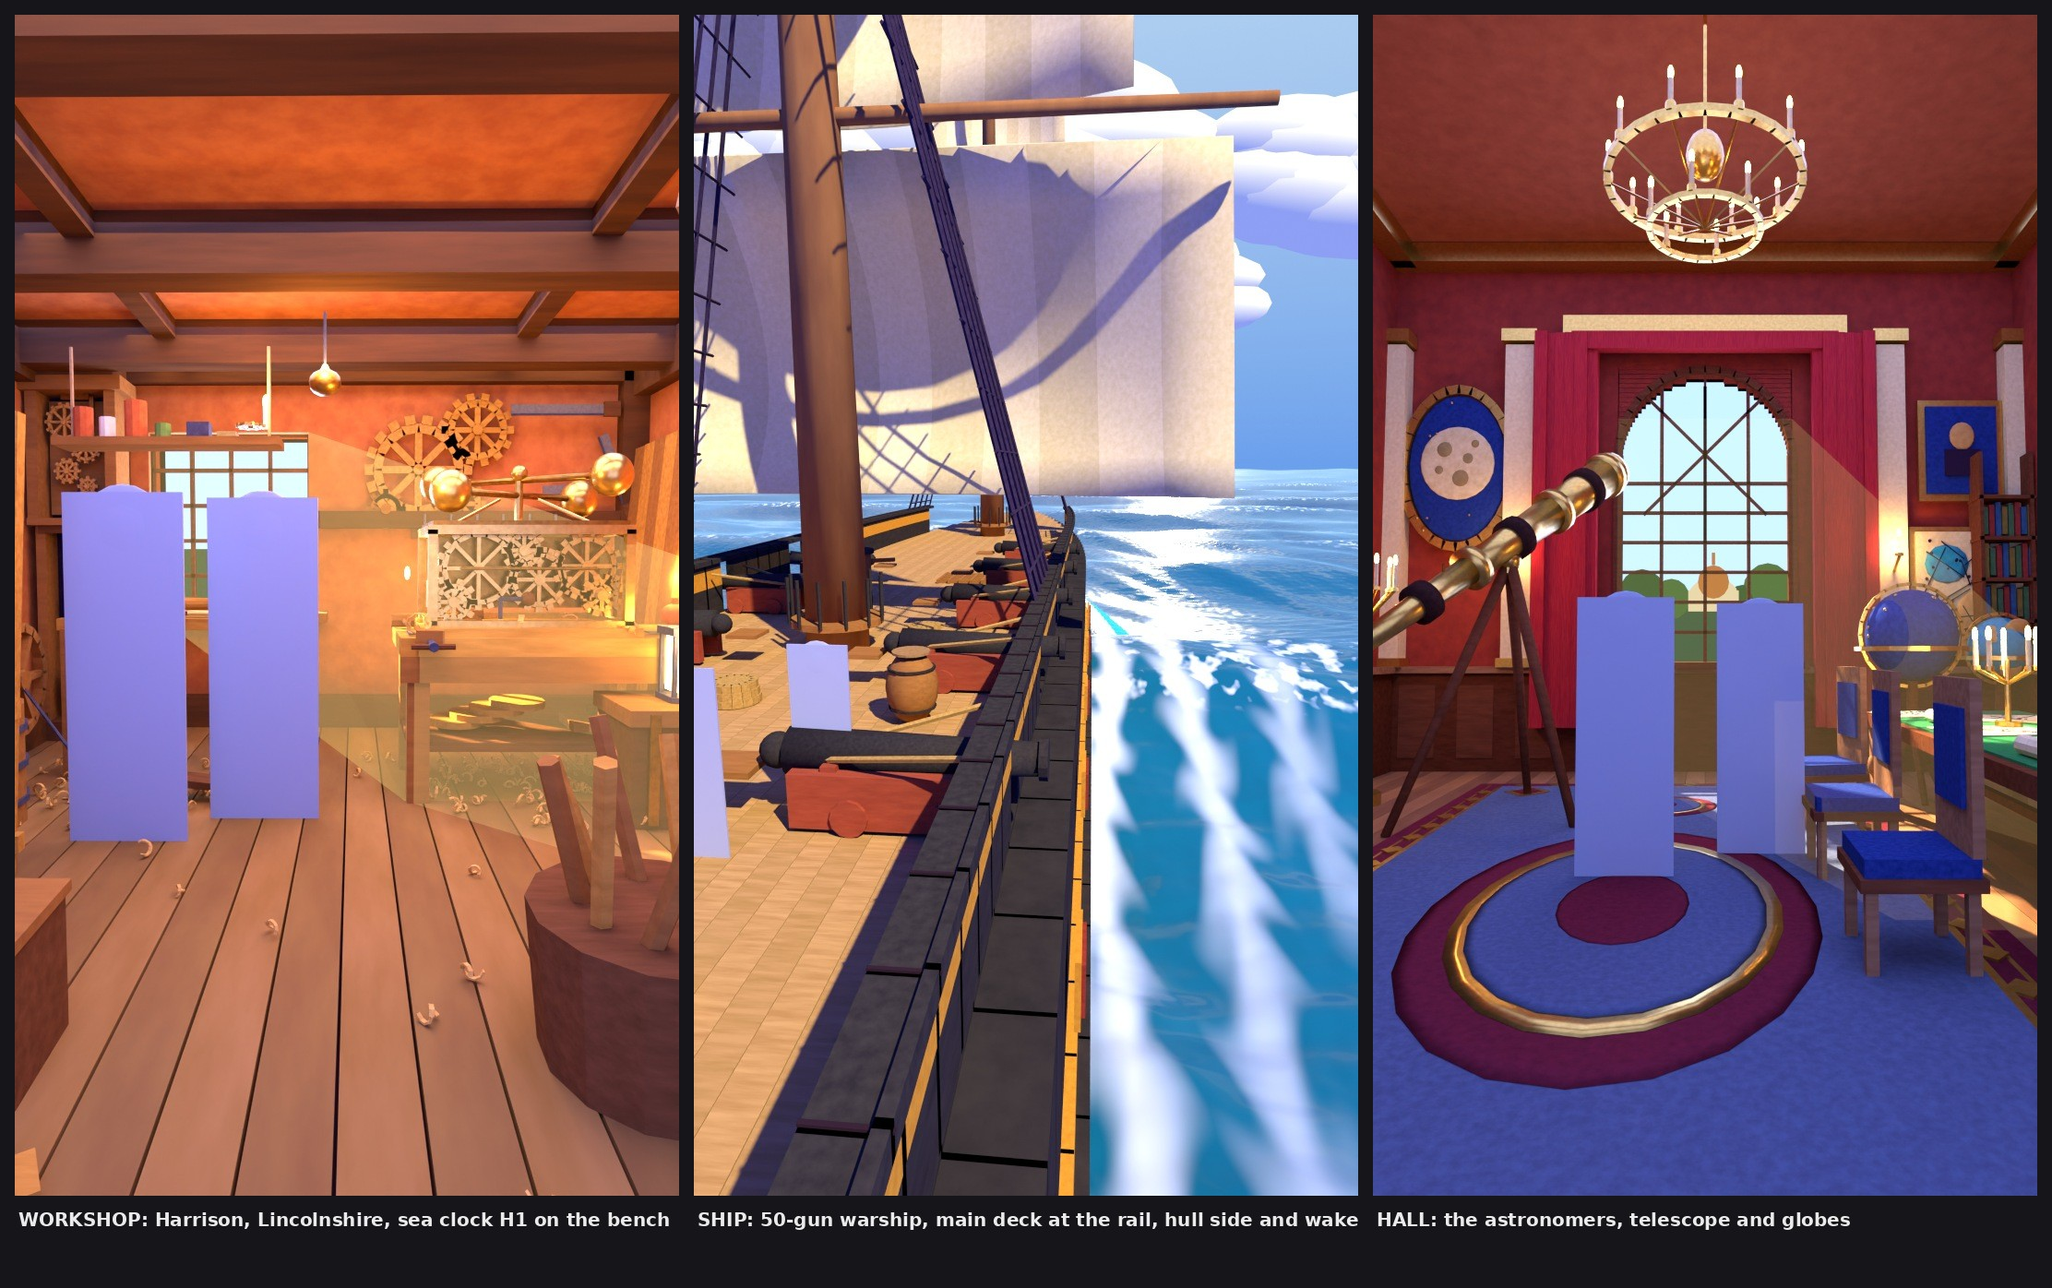
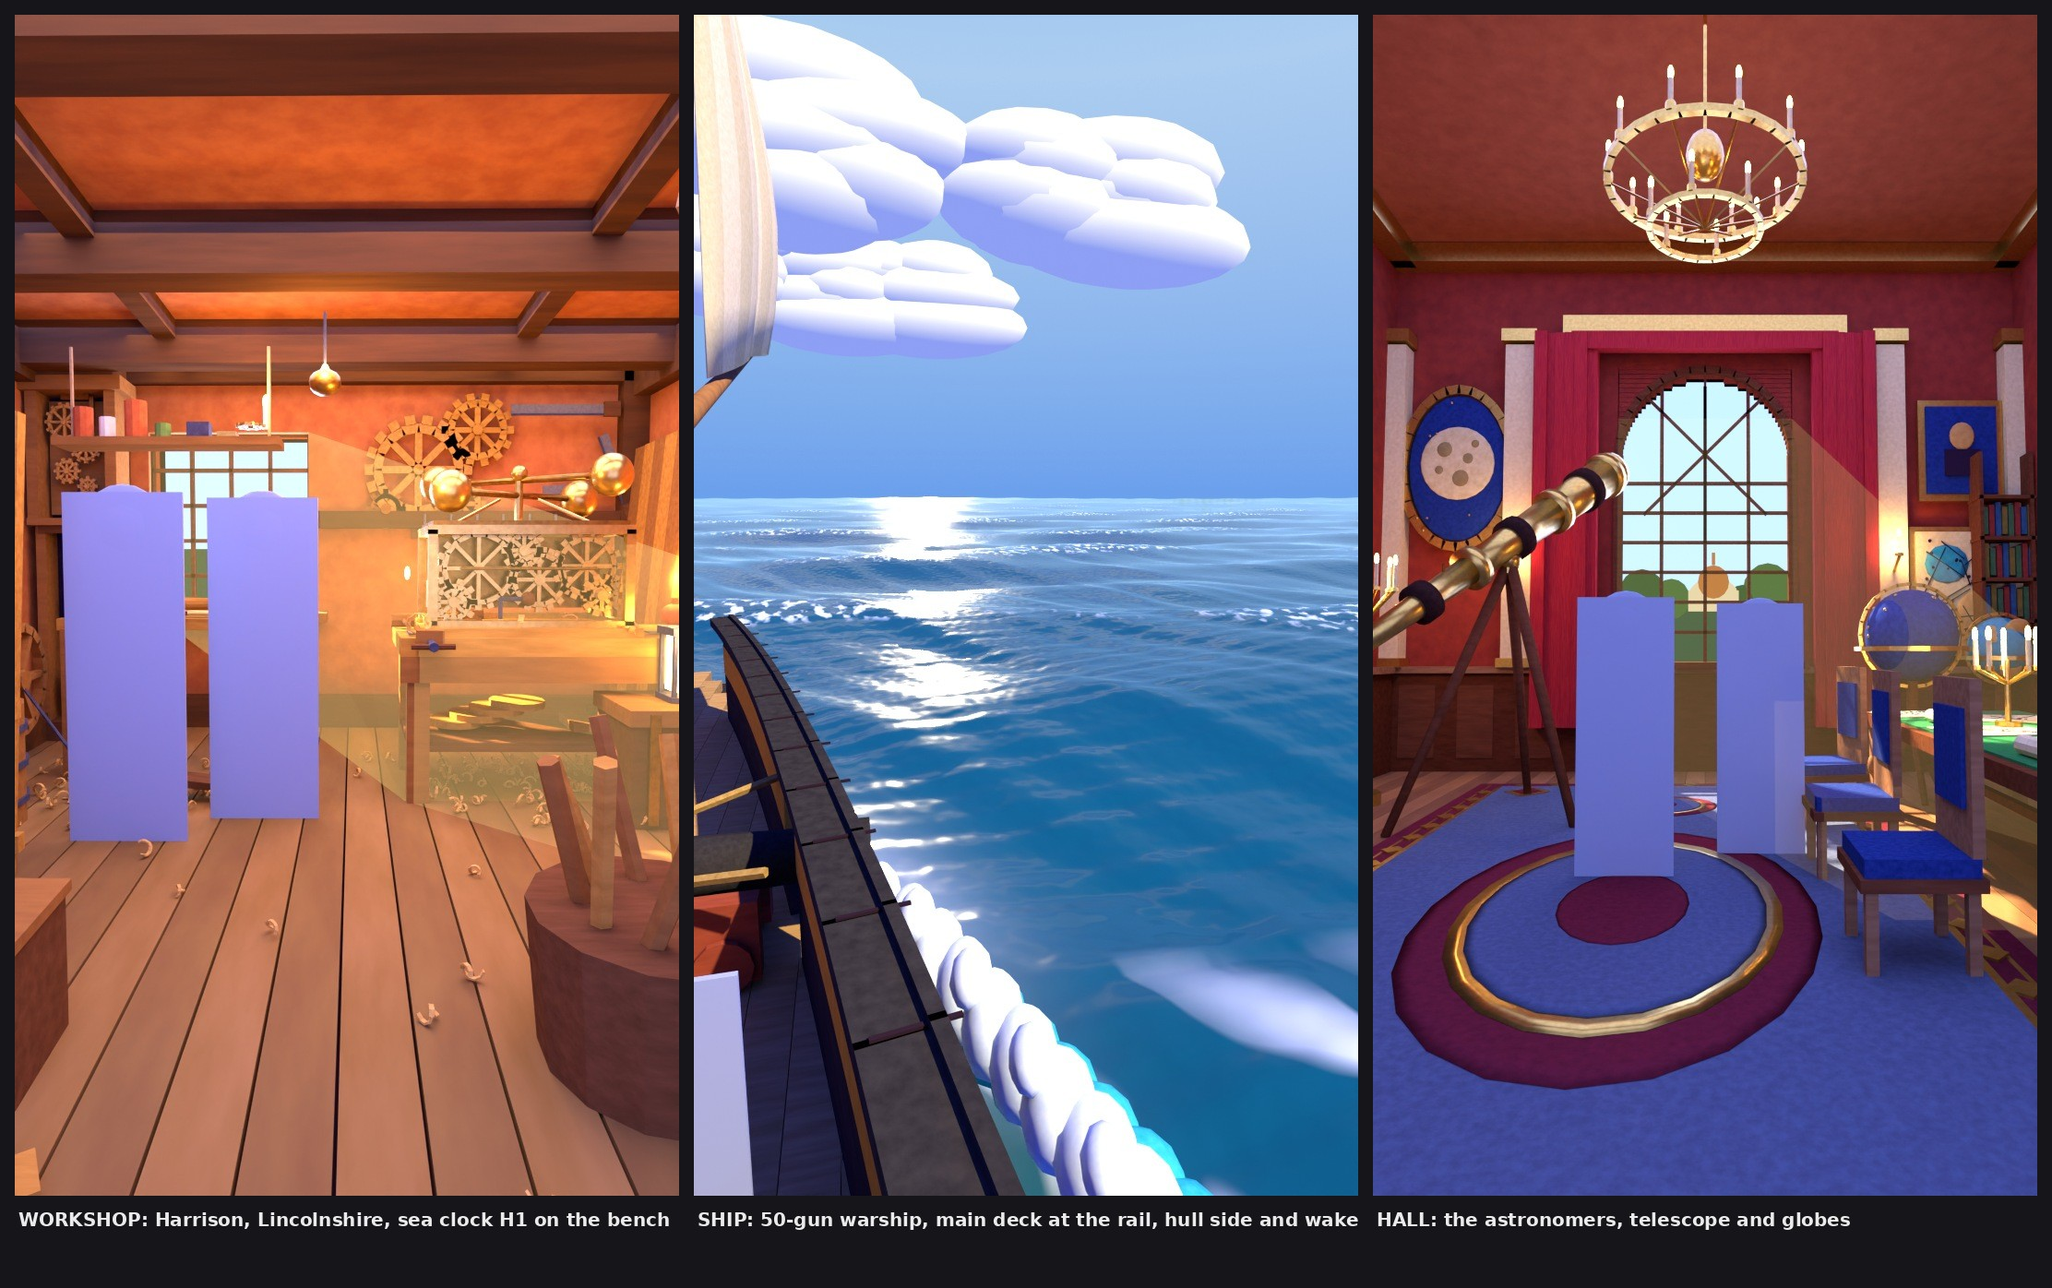
Film 19: style board v5 ship (bow view)
Claude-Session: https://claude.ai/code/session_017iwyCuVqr4pVQferrZ24jv

Changed region(s): [[0.3103, 0.0, 0.6826, 0.9549]]

diff --git a/film/v3/set3d19/styleboard/sb.py b/film/v3/set3d19/styleboard/sb.py
@@ -607,7 +607,7 @@ def build_ship(P):
     k = 0; x = -3.7 + 0.13
     while x < 3.7:
         yl = ylim_for(abs(x)); mb.box(M['deck1'] if k % 2 else M['deck2'], (x, (Y0 + yl) / 2, DECK - 0.08), (0.255, yl - Y0, 0.16)); x += 0.26; k += 1
-    gun_y = [2.0, 6.0, 10.0, 14.0, 18.0]; gun_yp = [3.0, 7.0, 11.0, 15.0]
+    gun_y = [2.0, 6.0, 10.0, 14.0, 18.0, 31.0, 34.5, 38.0]; gun_yp = [3.0, 7.0, 11.0, 15.0, 32.5, 36.0]
     y = Y0
     while y < STEM:
         yc = y + 0.5; b = hw(yc)
@@ -624,14 +624,14 @@ def build_ship(P):
             mb.box(M['ochre'], (s * (b + tt + 0.04), g, 4.55), (0.06, 0.78, 0.7)); mb.box(M['port'], (s * (b + tt + 0.08), g, 4.55), (0.06, 0.62, 0.54))
     for s, gy in ((1, gun_y), (-1, gun_yp)):
         y = Y0
-        while y < 29.0:
+        while y < 43.0:
             yc = y + 0.3; b = hw(yc)
             if b > 0.3 and not any(abs(yc - g) < 0.42 for g in gy):
                 dy = hw(yc + 0.3) - hw(yc - 0.3); ang = math.atan2(-dy * s, 0.6)
                 mb.box(M['hullb'], (s * (b - 0.04), yc, DECK + 0.3), (0.16, 0.66, 0.6), rz=ang); mb.box(M['ochre'], (s * (b - 0.04), yc, DECK + 0.78), (0.17, 0.66, 0.36), rz=ang); mb.box(M['hullb'], (s * (b - 0.04), yc, DECK + 1.02), (0.16, 0.66, 0.12), rz=ang)
             y += 0.6
         y = Y0
-        while y < 29.5:
+        while y < 43.5:
             yc = y + 0.35; b = hw(yc); dy = hw(yc + 0.35) - hw(yc - 0.35)
             if b > 0.2:
                 mb.box(M['cap'], (s * (b - 0.02), yc, DECK + 1.14), (0.3, 0.74, 0.1), rz=math.atan2(-dy * s, 0.7)); mb.box(M['cap'], (s * (b + 0.1), yc, DECK + 1.2), (0.06, 0.74, 0.06), rz=math.atan2(-dy * s, 0.7))
@@ -697,8 +697,8 @@ def build_ship(P):
     tq = mat('turq', '#2fa9a4', '#46bdb0', scale=2)
     for side in (-1, 1):
         for k in range(22):
-            yy = STEM - 0.3 - k * 0.75; b = hw(yy) + 1.0 + 0.22 * k ** 0.6
-            hgt = max(0.18, 1.7 - 0.07 * k); yaw = -side * math.atan2(hw(yy + 0.4) - hw(yy - 0.4), 0.8) * -1.0
+            yy = STEM - 0.3 - k * 0.75; b = hw(yy) + 2.6 + 0.25 * k ** 0.6
+            hgt = max(0.22, 2.1 - 0.08 * k); yaw = -side * math.atan2(hw(yy + 0.4) - hw(yy - 0.4), 0.8) * -1.0
             sp.ell(tq, (side * (b + 0.35 + 0.02 * k), yy, 0.15 + hgt * 0.22), (0.5 + 0.02 * k, 0.8, hgt * 0.42), (12, 6), rot=(0, 0, yaw))           # turquoise underside / face
             sp.ell(M['spray'], (side * (b - 0.05), yy, 0.2 + hgt * 0.62), (0.42 + 0.015 * k, 0.78, hgt * 0.4), (12, 6), rot=(0, 0, yaw))                # white curling roll on top
             if k % 2 == 0: sp.ell(M['spray'], (side * (b - 0.35), yy + 0.2, 0.25 + hgt * 0.95), (0.3, 0.5, hgt * 0.22), (10, 6), rot=(0, 0, yaw))       # the lip
@@ -715,7 +715,7 @@ def build_ship(P):
     ib.finish(shadow=False)
     sb_ = MB('farsail'); sb_.quad(M['darksail'], [(-330, 1500, 0.5), (-304, 1500, 0.5), (-312, 1500, 24), (-326, 1500, 28)]); sb_.quad(M['darksail'], [(-335, 1500, 0.5), (-305, 1500, 0.5), (-305, 1500, 3), (-335, 1500, 3)]); sb_.finish(shadow=False)
     cm = MB('cards')
-    if not os.environ.get('NOCARDS'): card(cm, M['grey'], 1.2, 1.2, w=0.55, z0=DECK); card(cm, M['grey'], 2.0, 2.0, w=0.55, z0=DECK); cm.finish()
+    if not os.environ.get('NOCARDS'): card(cm, M['grey'], 1.0, 34.0, w=0.55, z0=DECK); card(cm, M['grey'], 1.8, 35.4, w=0.55, z0=DECK); cm.finish()
     if not os.environ.get('NOSEA'): build_sea(P)
     clouds(P)
 
@@ -748,15 +748,16 @@ def build_sea(P):
     # foam attribute: wash along the outboard hull, bow foam (broken up by the shader noise)
     hh_ = hw(np.clip(py, -12, STEM)); d_hull = np.abs(px) - (hh_ + 0.95); d_hull = np.where((py > -12) & (py < STEM + 1), d_hull, 9)
     dh = np.maximum(d_hull, 0.0); dback = np.maximum(STEM - py, 0.0)
-    lace = 0.5 + 0.5 * np.sin(py * 1.7 + 2.3 * np.sin(dh * 2.1 + py * 0.3))
     inhull = (py > -12) & (py < STEM + 1.0)
+    uu_ = py / 2.4; vv_ = dh / 0.8                                   # patch coordinates: 3 m along the hull per 1 m across -> ~3:1 patches
+    nzp = 0.5 + 0.22 * np.sin(1.7 * uu_ + 0.9 * np.sin(1.3 * vv_ + 0.4 * uu_)) + 0.2 * np.sin(2.3 * vv_ + 1.2 * np.sin(0.8 * uu_ + 1.7)) + 0.12 * np.sin(3.1 * uu_ - 2.2 * vv_ + 0.7)
     bands = np.zeros_like(px)
-    for (off, w, amp, flen) in ((0.4, 0.9, 1.0, 80.0), (3.3, 1.0, 0.85, 60.0), (6.6, 1.15, 0.7, 44.0)):
-        wd = w * (0.65 + 0.7 * lace)
-        bnd = np.clip(1 - np.abs(dh - off - 0.3 * np.sin(py * 0.3 + off)) / wd, 0, 1)
-        bnd = bnd * bnd * (3 - 2 * bnd) * amp * np.clip(1.05 - dback / flen, 0, 1)
-        bands = np.maximum(bands, bnd)
-    bands *= inhull
+    for (off, w, amp, flen) in ((3.2, 1.6, 1.0, 90.0), (7.6, 2.2, 0.9, 90.0), (12.6, 2.8, 0.8, 90.0)):
+        env = np.clip(1 - np.abs(dh - off - 0.3 * dback * (0.4 + off / 12.0) - 0.5 * np.sin(py * 0.17 + off)) / w, 0, 1); env = env * env * (3 - 2 * env)
+        thr = 0.5 - 0.3 * env                                            # centre of the band is the most foamy
+        patch = np.clip((nzp - thr) / 0.12, 0, 1)
+        bands = np.maximum(bands, patch * env * amp * np.clip(1.05 - dback / flen, 0, 1))
+    bands *= inhull * np.clip((STEM + 1.0 - py) / 7.0, 0, 1)
     bow = np.exp(-(((px - 0.0) / 3.2) ** 2 + ((py - (STEM + 2.0)) / 4.2) ** 2)) * 0.9
     foam = np.nan_to_num(np.clip(np.maximum(bands * 0.95, bow), 0, 1))
     verts = np.stack([px, py, h], -1).reshape(-1, 3).astype(np.float32)
@@ -774,6 +775,7 @@ def build_sea(P):
     m = bpy.data.materials.new('sea'); m.use_nodes = True; nt = m.node_tree; nt.nodes.clear(); N = nt.nodes.new; L = nt.links.new
     out = N('ShaderNodeOutputMaterial'); bs = N('ShaderNodeBsdfPrincipled')
     bs.inputs['Roughness'].default_value = 0.1; bs.inputs['IOR'].default_value = 1.33; bs.inputs['Specular IOR Level'].default_value = 0.5
+    cdv = N('ShaderNodeCameraData'); msp = N('ShaderNodeMapRange'); msp.inputs['From Min'].default_value = 20.0; msp.inputs['From Max'].default_value = 120.0; msp.inputs['To Min'].default_value = 0.22; msp.inputs['To Max'].default_value = 0.5; L(cdv.outputs['View Distance'], msp.inputs['Value']); L(msp.outputs['Result'], bs.inputs['Specular IOR Level'])
     def mixc(a, b, fac):
         mx = N('ShaderNodeMix'); mx.data_type = 'RGBA'
         if hasattr(a, 'node'): L(a, mx.inputs[6])
@@ -784,7 +786,7 @@ def build_sea(P):
     cd = N('ShaderNodeCameraData'); mr = N('ShaderNodeMapRange'); mr.inputs['From Min'].default_value = 22.0; mr.inputs['From Max'].default_value = 220.0; L(cd.outputs['View Distance'], mr.inputs['Value'])
     col = mixc(hexc(P['sea_near']), hexc(P['sea_far']), mr.outputs['Result'])
     gp = N('ShaderNodeNewGeometry'); spz = N('ShaderNodeSeparateXYZ'); L(gp.outputs['Position'], spz.inputs[0])
-    cr = N('ShaderNodeMapRange'); cr.inputs['From Min'].default_value = 0.62; cr.inputs['From Max'].default_value = 0.95; L(spz.outputs['Z'], cr.inputs['Value'])
+    cr = N('ShaderNodeMapRange'); cr.inputs['From Min'].default_value = 0.55; cr.inputs['From Max'].default_value = 0.9; L(spz.outputs['Z'], cr.inputs['Value'])
     tcw = N('ShaderNodeTexCoord'); mpw = N('ShaderNodeMapping'); mpw.inputs['Scale'].default_value = (1.1, 0.7, 1.0); L(tcw.outputs['Object'], mpw.inputs['Vector'])
     nzw = N('ShaderNodeTexNoise'); nzw.inputs['Scale'].default_value = 1.0; nzw.inputs['Detail'].default_value = 2.0; L(mpw.outputs[0], nzw.inputs['Vector'])
     sp2 = N('ShaderNodeMapRange'); sp2.inputs['From Min'].default_value = 0.52; sp2.inputs['From Max'].default_value = 0.64; L(nzw.outputs['Fac'], sp2.inputs['Value'])
@@ -815,9 +817,9 @@ PRESETS['ship'] = dict(
     sky=[(0.0, '#6c9ce0'), (0.46, '#a9c6e6'), (0.5, '#a4c4e6'), (0.58, '#7ea8e2'), (0.78, '#4f7ed0'), (1.0, '#3a64be')], sky_k=1.0,
     key=(1.0, 0.92, 0.78, 6.5), key_dir=kdir(140, 48), sun_angle=0.9, exposure=0.1, sat=1.08, amb=('#3050FF', 1.7), samples=80, dbounce=1, gloss=2,
     cloud=('#ffffff', '#8c9ce8'), cloud_diffuse=True, cloud_z=(70, 170), ncloud=8, cloud_seed=4, cloud_scale=0.8,
-    sea_near='#115f6e', sea_far='#0a2c4c', fresnel_k=0.7,
+    sea_near='#0a4a58', sea_far='#0a2c4c', fresnel_k=0.7,
     glit_az=6, glit_el=11, glit_k=30.0,
-    cam=dict(loc=(4.4, -4.0, 9.2), look=(4.4 - 3.6, -4.0 + 39.8, 9.2 - 7.9), lens=22))
+    cam=dict(loc=(2.4, 33.5, 8.9), look=(2.4 + 9.7, 33.5 + 38.8, 8.9 - 6.3), lens=22))
 
 def lights_ship(P):
     sun_light(P); w = sky_world2(P)

diff --git a/film/v3/set3d19/styleboard/part_ship.py b/film/v3/set3d19/styleboard/part_ship.py
@@ -94,7 +94,7 @@ def build_ship(P):
     k = 0; x = -3.7 + 0.13
     while x < 3.7:
         yl = ylim_for(abs(x)); mb.box(M['deck1'] if k % 2 else M['deck2'], (x, (Y0 + yl) / 2, DECK - 0.08), (0.255, yl - Y0, 0.16)); x += 0.26; k += 1
-    gun_y = [2.0, 6.0, 10.0, 14.0, 18.0]; gun_yp = [3.0, 7.0, 11.0, 15.0]
+    gun_y = [2.0, 6.0, 10.0, 14.0, 18.0, 31.0, 34.5, 38.0]; gun_yp = [3.0, 7.0, 11.0, 15.0, 32.5, 36.0]
     y = Y0
     while y < STEM:
         yc = y + 0.5; b = hw(yc)
@@ -111,14 +111,14 @@ def build_ship(P):
             mb.box(M['ochre'], (s * (b + tt + 0.04), g, 4.55), (0.06, 0.78, 0.7)); mb.box(M['port'], (s * (b + tt + 0.08), g, 4.55), (0.06, 0.62, 0.54))
     for s, gy in ((1, gun_y), (-1, gun_yp)):
         y = Y0
-        while y < 29.0:
+        while y < 43.0:
             yc = y + 0.3; b = hw(yc)
             if b > 0.3 and not any(abs(yc - g) < 0.42 for g in gy):
                 dy = hw(yc + 0.3) - hw(yc - 0.3); ang = math.atan2(-dy * s, 0.6)
                 mb.box(M['hullb'], (s * (b - 0.04), yc, DECK + 0.3), (0.16, 0.66, 0.6), rz=ang); mb.box(M['ochre'], (s * (b - 0.04), yc, DECK + 0.78), (0.17, 0.66, 0.36), rz=ang); mb.box(M['hullb'], (s * (b - 0.04), yc, DECK + 1.02), (0.16, 0.66, 0.12), rz=ang)
             y += 0.6
         y = Y0
-        while y < 29.5:
+        while y < 43.5:
             yc = y + 0.35; b = hw(yc); dy = hw(yc + 0.35) - hw(yc - 0.35)
             if b > 0.2:
                 mb.box(M['cap'], (s * (b - 0.02), yc, DECK + 1.14), (0.3, 0.74, 0.1), rz=math.atan2(-dy * s, 0.7)); mb.box(M['cap'], (s * (b + 0.1), yc, DECK + 1.2), (0.06, 0.74, 0.06), rz=math.atan2(-dy * s, 0.7))
@@ -184,8 +184,8 @@ def build_ship(P):
     tq = mat('turq', '#2fa9a4', '#46bdb0', scale=2)
     for side in (-1, 1):
         for k in range(22):
-            yy = STEM - 0.3 - k * 0.75; b = hw(yy) + 1.0 + 0.22 * k ** 0.6
-            hgt = max(0.18, 1.7 - 0.07 * k); yaw = -side * math.atan2(hw(yy + 0.4) - hw(yy - 0.4), 0.8) * -1.0
+            yy = STEM - 0.3 - k * 0.75; b = hw(yy) + 2.6 + 0.25 * k ** 0.6
+            hgt = max(0.22, 2.1 - 0.08 * k); yaw = -side * math.atan2(hw(yy + 0.4) - hw(yy - 0.4), 0.8) * -1.0
             sp.ell(tq, (side * (b + 0.35 + 0.02 * k), yy, 0.15 + hgt * 0.22), (0.5 + 0.02 * k, 0.8, hgt * 0.42), (12, 6), rot=(0, 0, yaw))           # turquoise underside / face
             sp.ell(M['spray'], (side * (b - 0.05), yy, 0.2 + hgt * 0.62), (0.42 + 0.015 * k, 0.78, hgt * 0.4), (12, 6), rot=(0, 0, yaw))                # white curling roll on top
             if k % 2 == 0: sp.ell(M['spray'], (side * (b - 0.35), yy + 0.2, 0.25 + hgt * 0.95), (0.3, 0.5, hgt * 0.22), (10, 6), rot=(0, 0, yaw))       # the lip
@@ -202,7 +202,7 @@ def build_ship(P):
     ib.finish(shadow=False)
     sb_ = MB('farsail'); sb_.quad(M['darksail'], [(-330, 1500, 0.5), (-304, 1500, 0.5), (-312, 1500, 24), (-326, 1500, 28)]); sb_.quad(M['darksail'], [(-335, 1500, 0.5), (-305, 1500, 0.5), (-305, 1500, 3), (-335, 1500, 3)]); sb_.finish(shadow=False)
     cm = MB('cards')
-    if not os.environ.get('NOCARDS'): card(cm, M['grey'], 1.2, 1.2, w=0.55, z0=DECK); card(cm, M['grey'], 2.0, 2.0, w=0.55, z0=DECK); cm.finish()
+    if not os.environ.get('NOCARDS'): card(cm, M['grey'], 1.0, 34.0, w=0.55, z0=DECK); card(cm, M['grey'], 1.8, 35.4, w=0.55, z0=DECK); cm.finish()
     if not os.environ.get('NOSEA'): build_sea(P)
     clouds(P)
 
@@ -235,15 +235,16 @@ def build_sea(P):
     # foam attribute: wash along the outboard hull, bow foam (broken up by the shader noise)
     hh_ = hw(np.clip(py, -12, STEM)); d_hull = np.abs(px) - (hh_ + 0.95); d_hull = np.where((py > -12) & (py < STEM + 1), d_hull, 9)
     dh = np.maximum(d_hull, 0.0); dback = np.maximum(STEM - py, 0.0)
-    lace = 0.5 + 0.5 * np.sin(py * 1.7 + 2.3 * np.sin(dh * 2.1 + py * 0.3))
     inhull = (py > -12) & (py < STEM + 1.0)
+    uu_ = py / 2.4; vv_ = dh / 0.8                                   # patch coordinates: 3 m along the hull per 1 m across -> ~3:1 patches
+    nzp = 0.5 + 0.22 * np.sin(1.7 * uu_ + 0.9 * np.sin(1.3 * vv_ + 0.4 * uu_)) + 0.2 * np.sin(2.3 * vv_ + 1.2 * np.sin(0.8 * uu_ + 1.7)) + 0.12 * np.sin(3.1 * uu_ - 2.2 * vv_ + 0.7)
     bands = np.zeros_like(px)
-    for (off, w, amp, flen) in ((0.4, 0.9, 1.0, 80.0), (3.3, 1.0, 0.85, 60.0), (6.6, 1.15, 0.7, 44.0)):
-        wd = w * (0.65 + 0.7 * lace)
-        bnd = np.clip(1 - np.abs(dh - off - 0.3 * np.sin(py * 0.3 + off)) / wd, 0, 1)
-        bnd = bnd * bnd * (3 - 2 * bnd) * amp * np.clip(1.05 - dback / flen, 0, 1)
-        bands = np.maximum(bands, bnd)
-    bands *= inhull
+    for (off, w, amp, flen) in ((3.2, 1.6, 1.0, 90.0), (7.6, 2.2, 0.9, 90.0), (12.6, 2.8, 0.8, 90.0)):
+        env = np.clip(1 - np.abs(dh - off - 0.3 * dback * (0.4 + off / 12.0) - 0.5 * np.sin(py * 0.17 + off)) / w, 0, 1); env = env * env * (3 - 2 * env)
+        thr = 0.5 - 0.3 * env                                            # centre of the band is the most foamy
+        patch = np.clip((nzp - thr) / 0.12, 0, 1)
+        bands = np.maximum(bands, patch * env * amp * np.clip(1.05 - dback / flen, 0, 1))
+    bands *= inhull * np.clip((STEM + 1.0 - py) / 7.0, 0, 1)
     bow = np.exp(-(((px - 0.0) / 3.2) ** 2 + ((py - (STEM + 2.0)) / 4.2) ** 2)) * 0.9
     foam = np.nan_to_num(np.clip(np.maximum(bands * 0.95, bow), 0, 1))
     verts = np.stack([px, py, h], -1).reshape(-1, 3).astype(np.float32)
@@ -261,6 +262,7 @@ def build_sea(P):
     m = bpy.data.materials.new('sea'); m.use_nodes = True; nt = m.node_tree; nt.nodes.clear(); N = nt.nodes.new; L = nt.links.new
     out = N('ShaderNodeOutputMaterial'); bs = N('ShaderNodeBsdfPrincipled')
     bs.inputs['Roughness'].default_value = 0.1; bs.inputs['IOR'].default_value = 1.33; bs.inputs['Specular IOR Level'].default_value = 0.5
+    cdv = N('ShaderNodeCameraData'); msp = N('ShaderNodeMapRange'); msp.inputs['From Min'].default_value = 20.0; msp.inputs['From Max'].default_value = 120.0; msp.inputs['To Min'].default_value = 0.22; msp.inputs['To Max'].default_value = 0.5; L(cdv.outputs['View Distance'], msp.inputs['Value']); L(msp.outputs['Result'], bs.inputs['Specular IOR Level'])
     def mixc(a, b, fac):
         mx = N('ShaderNodeMix'); mx.data_type = 'RGBA'
         if hasattr(a, 'node'): L(a, mx.inputs[6])
@@ -271,7 +273,7 @@ def build_sea(P):
     cd = N('ShaderNodeCameraData'); mr = N('ShaderNodeMapRange'); mr.inputs['From Min'].default_value = 22.0; mr.inputs['From Max'].default_value = 220.0; L(cd.outputs['View Distance'], mr.inputs['Value'])
     col = mixc(hexc(P['sea_near']), hexc(P['sea_far']), mr.outputs['Result'])
     gp = N('ShaderNodeNewGeometry'); spz = N('ShaderNodeSeparateXYZ'); L(gp.outputs['Position'], spz.inputs[0])
-    cr = N('ShaderNodeMapRange'); cr.inputs['From Min'].default_value = 0.62; cr.inputs['From Max'].default_value = 0.95; L(spz.outputs['Z'], cr.inputs['Value'])
+    cr = N('ShaderNodeMapRange'); cr.inputs['From Min'].default_value = 0.55; cr.inputs['From Max'].default_value = 0.9; L(spz.outputs['Z'], cr.inputs['Value'])
     tcw = N('ShaderNodeTexCoord'); mpw = N('ShaderNodeMapping'); mpw.inputs['Scale'].default_value = (1.1, 0.7, 1.0); L(tcw.outputs['Object'], mpw.inputs['Vector'])
     nzw = N('ShaderNodeTexNoise'); nzw.inputs['Scale'].default_value = 1.0; nzw.inputs['Detail'].default_value = 2.0; L(mpw.outputs[0], nzw.inputs['Vector'])
     sp2 = N('ShaderNodeMapRange'); sp2.inputs['From Min'].default_value = 0.52; sp2.inputs['From Max'].default_value = 0.64; L(nzw.outputs['Fac'], sp2.inputs['Value'])
@@ -302,9 +304,9 @@ PRESETS['ship'] = dict(
     sky=[(0.0, '#6c9ce0'), (0.46, '#a9c6e6'), (0.5, '#a4c4e6'), (0.58, '#7ea8e2'), (0.78, '#4f7ed0'), (1.0, '#3a64be')], sky_k=1.0,
     key=(1.0, 0.92, 0.78, 6.5), key_dir=kdir(140, 48), sun_angle=0.9, exposure=0.1, sat=1.08, amb=('#3050FF', 1.7), samples=80, dbounce=1, gloss=2,
     cloud=('#ffffff', '#8c9ce8'), cloud_diffuse=True, cloud_z=(70, 170), ncloud=8, cloud_seed=4, cloud_scale=0.8,
-    sea_near='#115f6e', sea_far='#0a2c4c', fresnel_k=0.7,
+    sea_near='#0a4a58', sea_far='#0a2c4c', fresnel_k=0.7,
     glit_az=6, glit_el=11, glit_k=30.0,
-    cam=dict(loc=(4.4, -4.0, 9.2), look=(4.4 - 3.6, -4.0 + 39.8, 9.2 - 7.9), lens=22))
+    cam=dict(loc=(2.4, 33.5, 8.9), look=(2.4 + 9.7, 33.5 + 38.8, 8.9 - 6.3), lens=22))
 
 def lights_ship(P):
     sun_light(P); w = sky_world2(P)

diff --git a/film/v3/set3d19/styleboard/README.md b/film/v3/set3d19/styleboard/README.md
@@ -39,3 +39,6 @@ Ship render 113 s. Hue: ship 265.3 / 262.6 / magenta 1.6 % (mean just over the b
 - Wake: the stretched-noise streaks were replaced by 3 foam bands that follow the hull waterline (offsets 0.4 / 3.3 / 6.6 m), soft-edged with a lacy edge from a sine lace term, calm water between them; no shader noise on the foam.
 - Bow wave: white curling rolls (turquoise face underneath, small lip blobs) peeling back along both sides of the hull from the stem, a white crescent across the stem and spray flecks.
 - Non-blocking: bulwark and cap rail in warmer black #2a2622 with a second thin rail and plank-seam ticks, sails billow about 1.5x more, sky top deepened (#3a64be) with the horizon unchanged.
+
+## v5 (ship only)
+Render 81 s. Camera moved to the fore-chains area, inboard of the starboard rail (x 2.4, y 33.5, z 8.9), yaw 14 deg outboard, pitch -9 deg: the sea fills the right 70 % as a broad deep-teal plane (near albedo #0a4a58, near specular halved, Fresnel lift faded near); glitter path, far sea and clouds kept. Wake foam = 3 patchy bands (about 3:1 noise-thresholded patches, V arms trailing from the bow, faded out ahead of the stem), calm water between; bow roll (white with turquoise underside, pushed 2.6 m off the hull, over 60 px wide) runs diagonally at the lower middle. More whitecaps from a lower crest threshold. Deck, mast and the main sail are out of frame in this view (only the rail, a muzzle, a bit of deck and a jib sail at the upper-left edge show).
